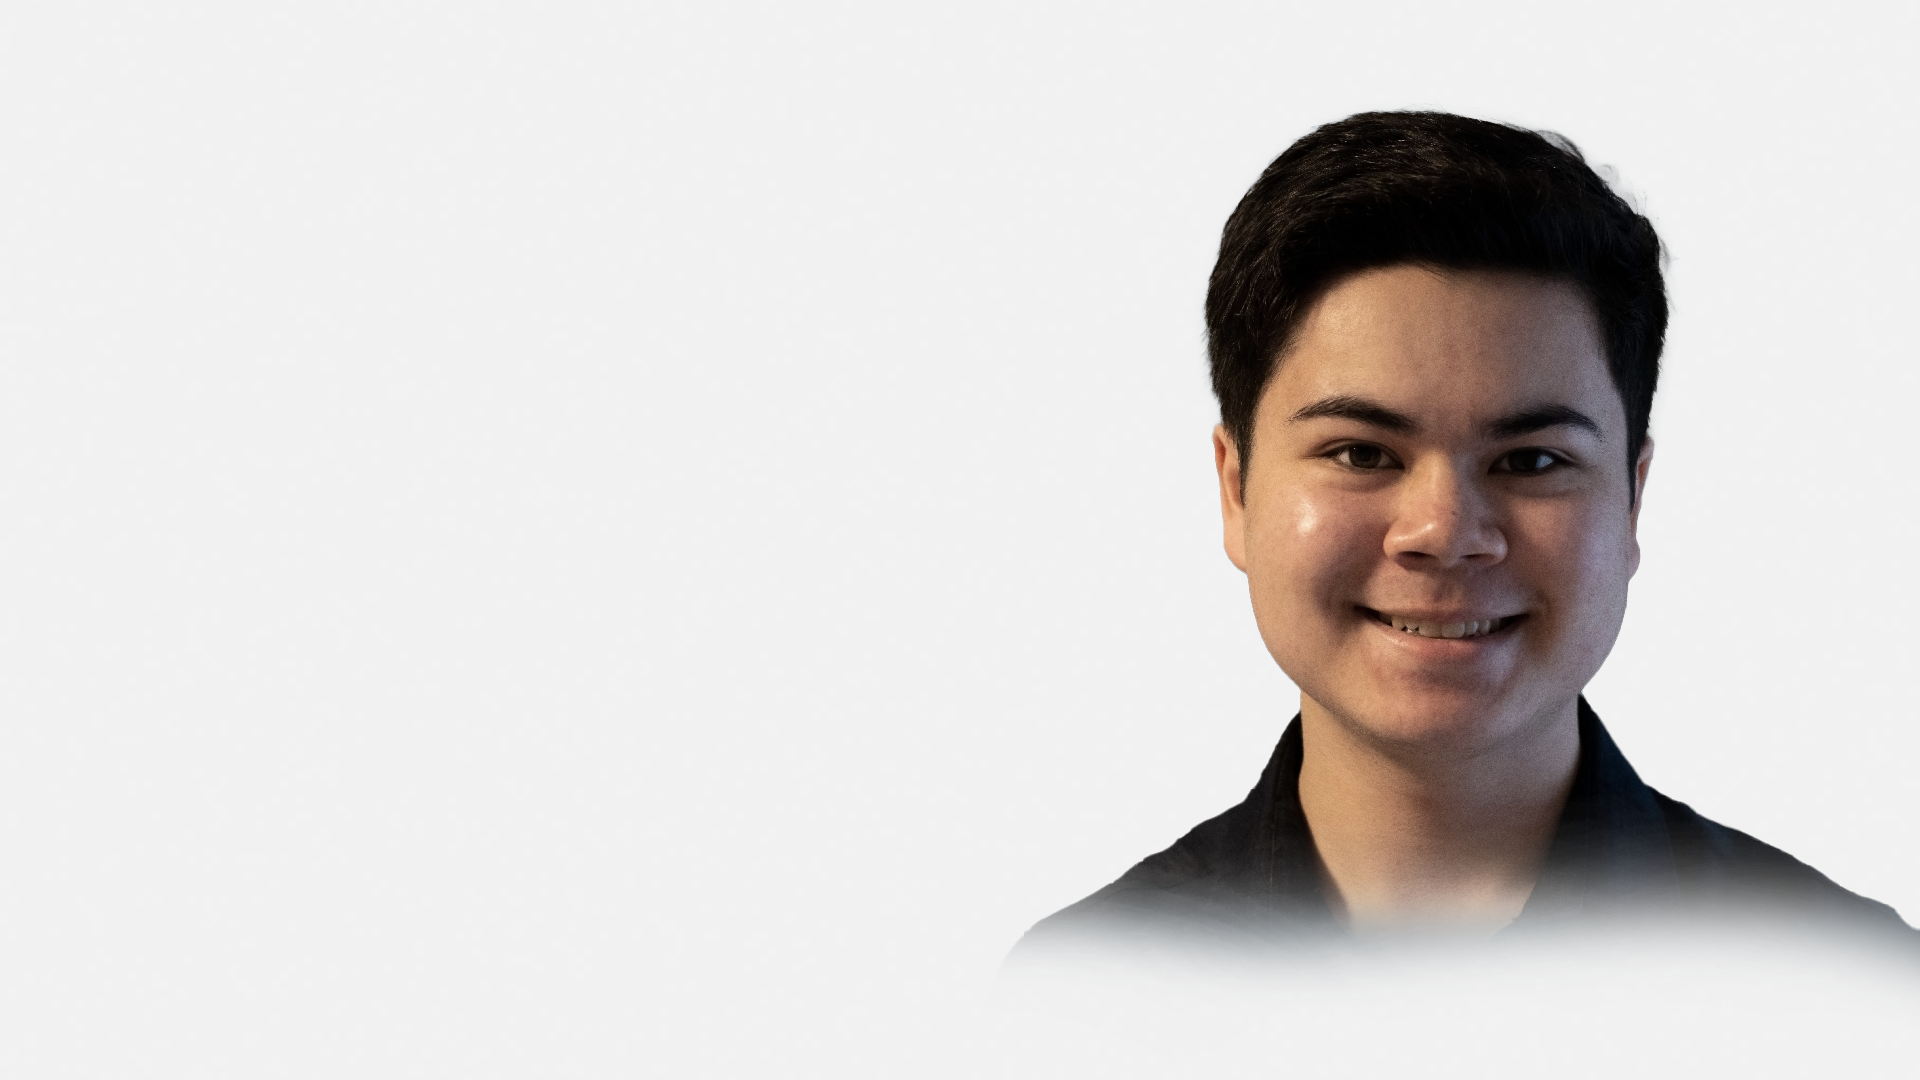
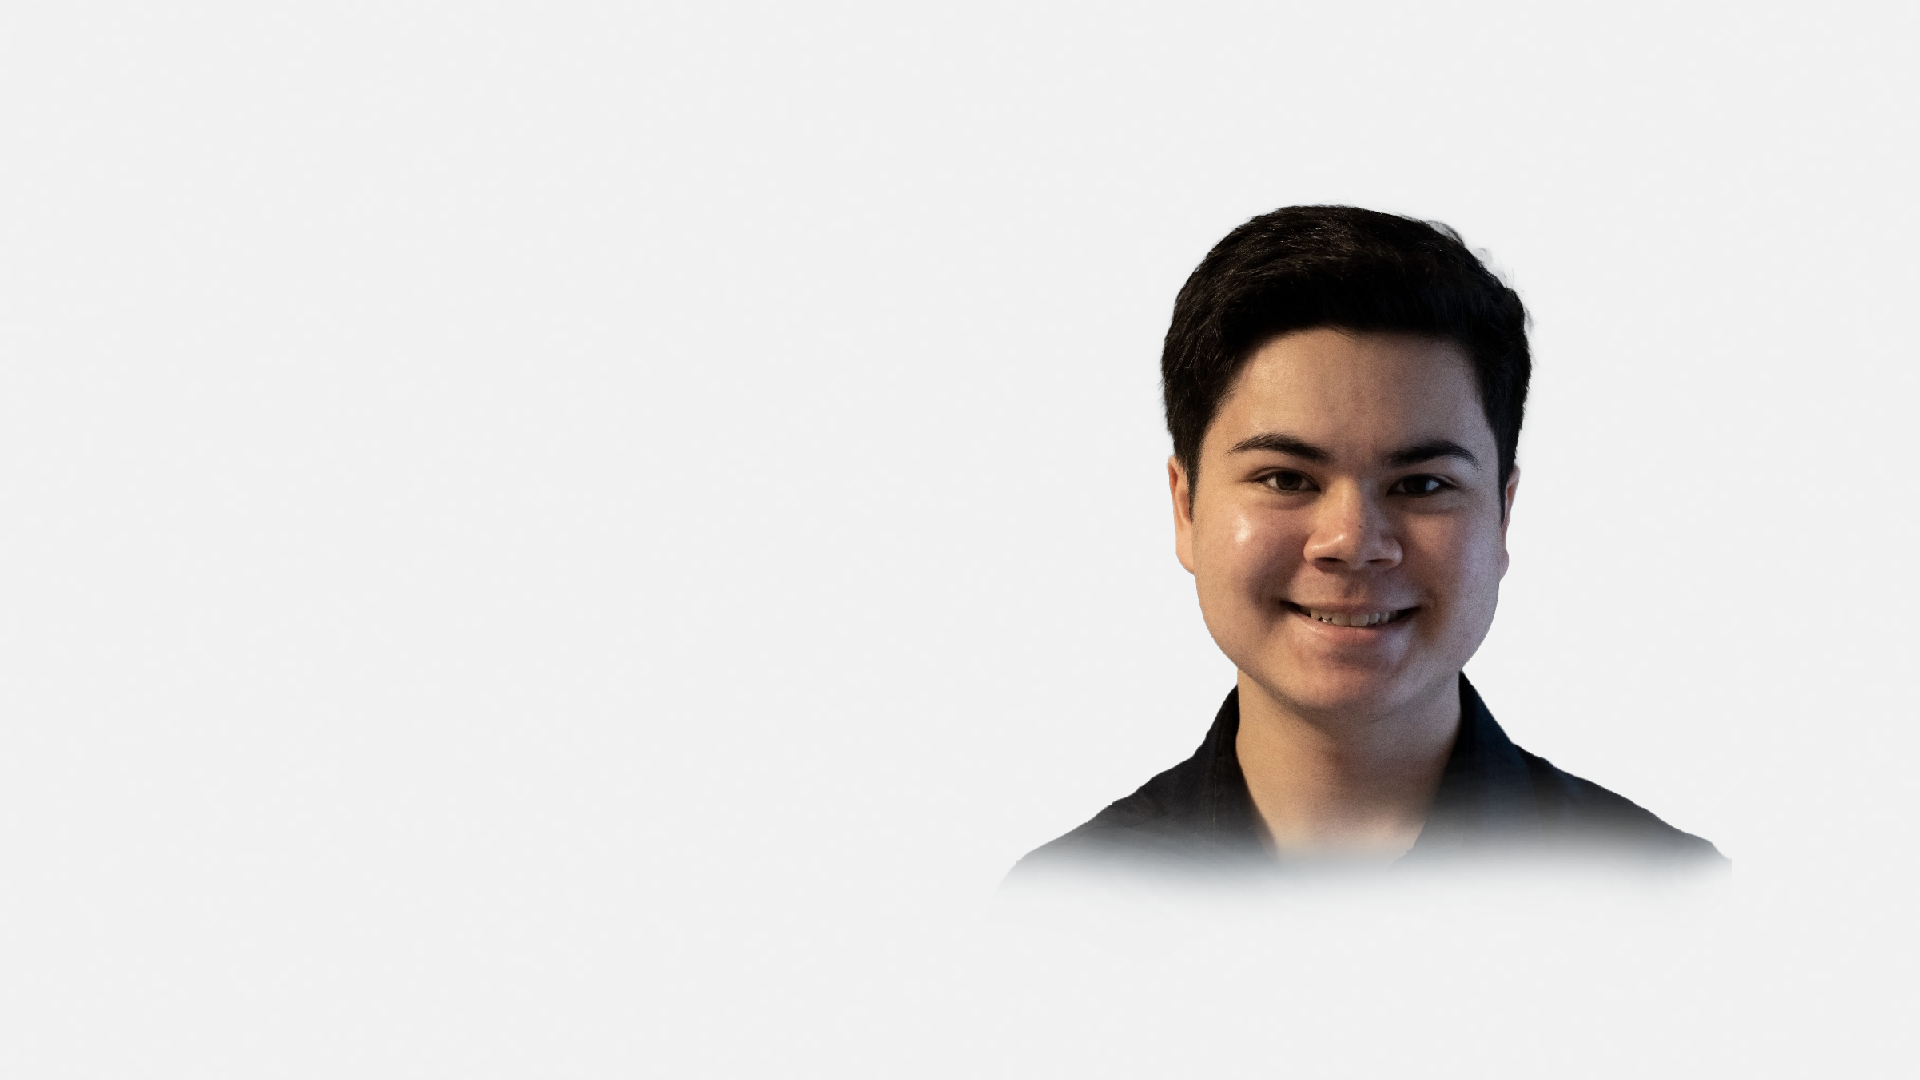
Bugfixes, Adjusted image size, removed pages
Fixed bug between padding on the contact page, removed designer and programmer cover page sections. Made landing page image smaller

Changed region(s): [[0.5312, 0.0917, 1.0, 0.9167]]

diff --git a/js/script.js b/js/script.js
@@ -167,32 +167,61 @@ function checkVisible(elm) {
 
 
   //Slideshow for programmer section
-
   let slideIndex = 1;
-showSlides(slideIndex);
-
-// Next/previous controls
-function plusSlides(n) {
-  showSlides(slideIndex += n);
-}
-
-// Thumbnail image controls
-function currentSlide(n) {
-  showSlides(slideIndex = n);
-}
-
-function showSlides(n) {
-  let i;
-  let slides = document.getElementsByClassName("mySlides");
+  let slideInterval;
+  
+  showSlides(slideIndex);
+  startSlideInterval();
+  
+  // Function to start the slideshow interval
+  function startSlideInterval() {
+    slideInterval = setInterval(() => plusSlides(1), 4000);
+  }
+  
+  // Function to pause the slideshow interval
+  function pauseSlideInterval() {
+    clearInterval(slideInterval);
+    setTimeout(() => {
+      startSlideInterval();
+    }, 15000);
+  }
+  
+  // Next/previous controls
+  function plusSlides(n) {
+    showSlides((slideIndex += n));
+  }
+  
+  // Thumbnail image controls
+  function currentSlide(n) {
+    showSlides((slideIndex = n));
+  }
+  
+  function showSlides(n) {
+    let i;
+    let slides = document.getElementsByClassName("mySlides");
+    let dots = document.getElementsByClassName("dot");
+    if (n > slides.length) {
+      slideIndex = 1;
+    }
+    if (n < 1) {
+      slideIndex = slides.length;
+    }
+    for (i = 0; i < slides.length; i++) {
+      slides[i].style.display = "none";
+    }
+    for (i = 0; i < dots.length; i++) {
+      dots[i].className = dots[i].className.replace(" active-dot", "");
+    }
+    slides[slideIndex - 1].style.display = "block";
+    dots[slideIndex - 1].className += " active-dot";
+  }
+  
+  // Add click event listeners to dots
   let dots = document.getElementsByClassName("dot");
-  if (n > slides.length) {slideIndex = 1}
-  if (n < 1) {slideIndex = slides.length}
-  for (i = 0; i < slides.length; i++) {
-    slides[i].style.display = "none";
+  for (let i = 0; i < dots.length; i++) {
+    dots[i].addEventListener("click", () => {
+      currentSlide(i + 1);
+      pauseSlideInterval();
+    });
   }
-  for (i = 0; i < dots.length; i++) {
-    dots[i].className = dots[i].className.replace(" active-dot", "");
-  }
-  slides[slideIndex-1].style.display = "block";
-  dots[slideIndex-1].className += " active-dot";
-} 
+  

diff --git a/index.html b/index.html
@@ -25,7 +25,6 @@
             <a href="#home" class="active">Home</a>
             <a href="#about">About</a>
             <a href="#programmer">Projects</a>
-            <a href="#designer">Designer</a>
             <a href="#contact">Contact</a>
 
             <span class="active-nav"></span>
@@ -93,14 +92,6 @@
     </section>
 
     <!-- projects section design -->
-
-    <section class="programmer-cover" id="cover">
-        <div class="programmer-cover-content">
-            <h2 class="heading"> The <span> Programmer</span> </h2>
-            <!-- <span class="animate scroll" style="--i:1;"></span> -->
-            <p> Bridging the gap between the digital and physical worlds.</p>
-        </div>
-    </section>
 
 
     <section class="programmer" id="programmer">
@@ -214,17 +205,7 @@
 
     </section>
 
-    <!-- designer section design -->
-    <section class="designer-cover" id="cover">
-        <div class="designer-cover-content">
-            <h2 class="heading"> The <span> Designer</span> </h2>
-            <p> Crafting visuals that ignite the imagination."</p>
-            <!-- <span class="animate scroll" style="--i:1;"></span> -->
-        </div>
-    </section>
-    <section class="designer" id="designer">
-
-    </section>
+   
     <!-- contact section design -->
     <section class="contact" id="contact">
         <h2 class="heading">Contact <span> Me!</span> <span class="animate scroll" style="--i:1;"></span>

diff --git a/css/style.css b/css/style.css
@@ -449,7 +449,7 @@ span {
     width: 70%;
     object-fit: contain;
     height: auto;
-    box-shadow: 4px 4px 7px rgba(0, 0, 0, 0.3);
+    /* box-shadow: 4px 4px 7px rgba(0, 0, 0, 0.3); */
 
 
 }
@@ -578,15 +578,7 @@ span {
     }
 }
 
-.designer {
-    display: flex;
-    justify-content: center;
-    align-items: center;
-    flex-direction: column;
-    gap: 2rem;
-    background: var(--second-bg-color);
-    padding-bottom: 6rem;
-}
+
 
 
 .contact {
@@ -616,7 +608,7 @@ span {
 .contact form .input-box .input-field {
     position: relative;
     width: 48%;
-    margin-bottom: .8rem 0;
+    margin-bottom: .8rem;
 }
 
 .contact form .input-box .input-field input,
@@ -754,7 +746,7 @@ span {
     animation: none;
 }
 
-section:nth-child(odd) .animate.scroll {
+section:nth-child(odd):not(.contact) .animate.scroll {
     background: var(--second-bg-color);
 }
 
